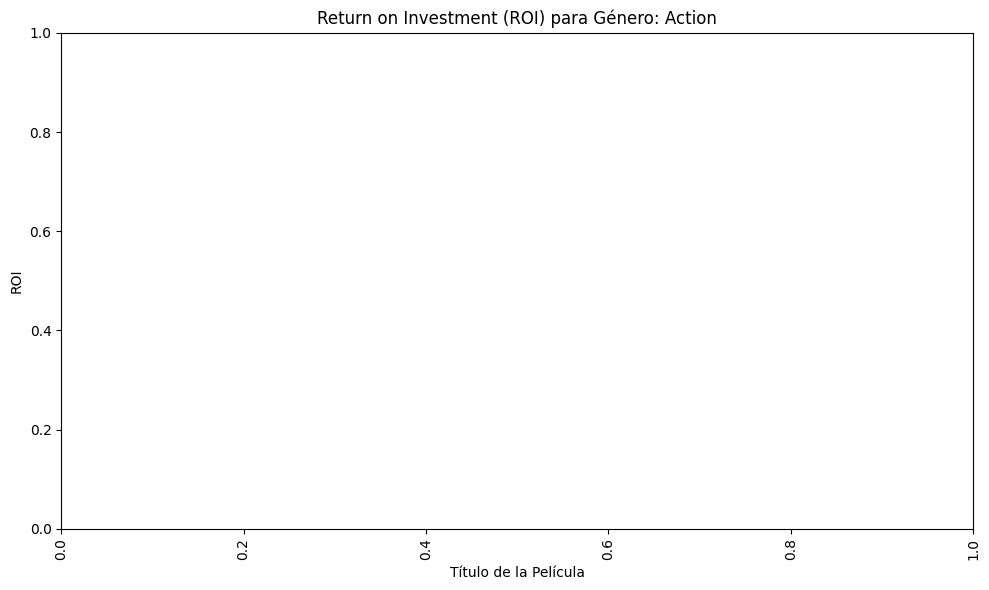
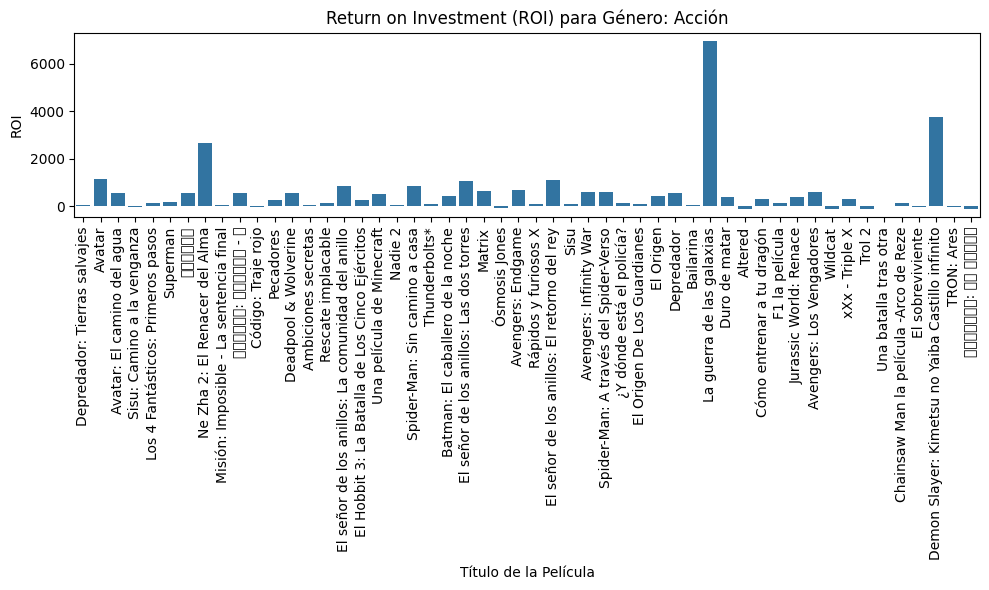
preliminar final version

diff --git a/templates/data_analysis.html b/templates/data_analysis.html
@@ -66,9 +66,13 @@
                         <h2>ROI por género</h2>
                         <div class="controls">
                             <select id="genreSelect">
-                                <option value="Action">Action</option>
-                                <option value="Drama">Drama</option>
-                                <option value="Comedy">Comedy</option>
+                                {% if genres and genres|length > 0 %}
+                                    {% for g in genres %}
+                                        <option value="{{ g }}">{{ g }}</option>
+                                    {% endfor %}
+                                {% else %}
+                                    <option disabled>No genres found</option>
+                                {% endif %}
                             </select>
                             <button id="genRoiGenreBtn">Generar ROI por género</button>
                         </div>
@@ -79,11 +83,29 @@
 
                     <div class="chart-item" id="scatterSection">
                         <h2>Scatter</h2>
-                        <div class="controls">
-                            <input id="scatterX" placeholder="Variable X" />
-                            <input id="scatterY" placeholder="Variable Y" />
-                            <button id="genScatterBtn">Generar Scatter</button>
-                        </div>
+                            <div class="controls">
+                                <label for="scatterX">Variable X</label>
+                                <select id="scatterX">
+                                    {% if numeric_columns and numeric_columns|length > 0 %}
+                                        {% for c in numeric_columns %}
+                                            <option value="{{ c }}">{{ c }}</option>
+                                        {% endfor %}
+                                    {% else %}
+                                        <option disabled>No numeric columns found</option>
+                                    {% endif %}
+                                </select>
+                                <label for="scatterY">Variable Y</label>
+                                <select id="scatterY">
+                                    {% if numeric_columns and numeric_columns|length > 0 %}
+                                        {% for c in numeric_columns %}
+                                            <option value="{{ c }}">{{ c }}</option>
+                                        {% endfor %}
+                                    {% else %}
+                                        <option disabled>No numeric columns found</option>
+                                    {% endif %}
+                                </select>
+                                <button id="genScatterBtn">Generar Scatter</button>
+                            </div>
                         <div class="chart-content">
                             <img id="scatterImg" alt="Scatter plot" style="max-width:100%;" />
                         </div>

diff --git a/app/app.py b/app/app.py
@@ -5,6 +5,7 @@ from fastapi.templating import Jinja2Templates
 import json
 import os
 from typing import Optional
+from app.modules.movie import Movie
 
 # Pipeline functions
 try:
@@ -23,6 +24,48 @@ app = FastAPI()
 app.mount("/static", StaticFiles(directory=STATIC_DIR), name="static")
 templates = Jinja2Templates(directory=TEMPLATES_DIR)
 
+def get_genres_from_db():
+    try:
+        movie = Movie()
+        df = movie.data
+        genres_set = set()
+        if df is None:
+            return []
+        if 'genres' in df.columns:
+            for val in df['genres'].dropna():
+                if isinstance(val, list):
+                    for g in val:
+                        if g and isinstance(g, str):
+                            genres_set.add(g.strip())
+                elif isinstance(val, str):
+                    for g in [p.strip() for p in val.split(',')]:
+                        if g:
+                            genres_set.add(g)
+        elif 'genre' in df.columns:
+            for val in df['genre'].dropna():
+                if isinstance(val, list):
+                    for g in val:
+                        if g and isinstance(g, str):
+                            genres_set.add(g.strip())
+                else:
+                    for g in [p.strip() for p in str(val).split(',')]:
+                        if g:
+                            genres_set.add(g)
+        return sorted(genres_set)
+    except Exception:
+        return []
+
+def get_numeric_columns_from_db():
+    try:
+        movie = Movie()
+        df = movie.data
+        if df is None:
+            return []
+        num_cols = df.select_dtypes(include='number').columns.tolist()
+        return sorted(num_cols)
+    except Exception:
+        return []
+
 # Rutas de la aplicación
 @app.get("/")
 def index(request: Request):
@@ -30,12 +73,22 @@ def index(request: Request):
 
 @app.get("/data_analysis")
 def data_analysis(request: Request):
-    return templates.TemplateResponse("data_analysis.html", {"request": request})
+    genres = get_genres_from_db()
+    numeric_columns = get_numeric_columns_from_db()
+    return templates.TemplateResponse(
+        "data_analysis.html",
+        {"request": request, "genres": genres, "numeric_columns": numeric_columns}
+    )
 
 # Alias para compatibilidad con enlaces existentes
 @app.get("/financial", name="financial")
 def financial(request: Request):
-    return templates.TemplateResponse("data_analysis.html", {"request": request})
+    genres = get_genres_from_db()
+    numeric_columns = get_numeric_columns_from_db()
+    return templates.TemplateResponse(
+        "data_analysis.html",
+        {"request": request, "genres": genres, "numeric_columns": numeric_columns}
+    )
 
 @app.get("/scraper")
 def scraper(request: Request):

diff --git a/app/modules/visualizer.py b/app/modules/visualizer.py
@@ -10,7 +10,7 @@ class Visualizer:
 
     # Generación de la matriz de correlación
     def display_matrix_correlation(self, matrix):
-        plt.figure(figsize=(10,8))
+        plt.figure(figsize=(20,15))
         sns.heatmap(
             matrix,
             annot=True,
@@ -26,7 +26,7 @@ class Visualizer:
         
     def display_roi_chart(self):
         roi_data = self.analyzer.calculate_roi()
-        plt.figure(figsize=(10,6))
+        plt.figure(figsize=(20,15))
         if roi_data is not None and not roi_data.empty:
             sns.barplot(x='title', y='roi', data=roi_data)
         plt.xticks(rotation=90)
@@ -40,7 +40,7 @@ class Visualizer:
         
     def display_roi_chart_by_genre(self, genre):
         roi_data = self.analyzer.calculate_roi_by_genre(genre)
-        plt.figure(figsize=(10,6))
+        plt.figure(figsize=(20,15))
         if roi_data is not None and not roi_data.empty:
             sns.barplot(x='title', y='roi', data=roi_data)
         plt.xticks(rotation=90)
@@ -53,7 +53,7 @@ class Visualizer:
         plt.close()
         
     def scatter_plot(self, x_var, y_var):
-        plt.figure(figsize=(10,6))
+        plt.figure(figsize=(20,15))
         if x_var in self.data.columns and y_var in self.data.columns:
             sns.scatterplot(x=self.data[x_var], y=self.data[y_var])
         plt.title(f'Scatter Plot de {x_var} vs {y_var}')
